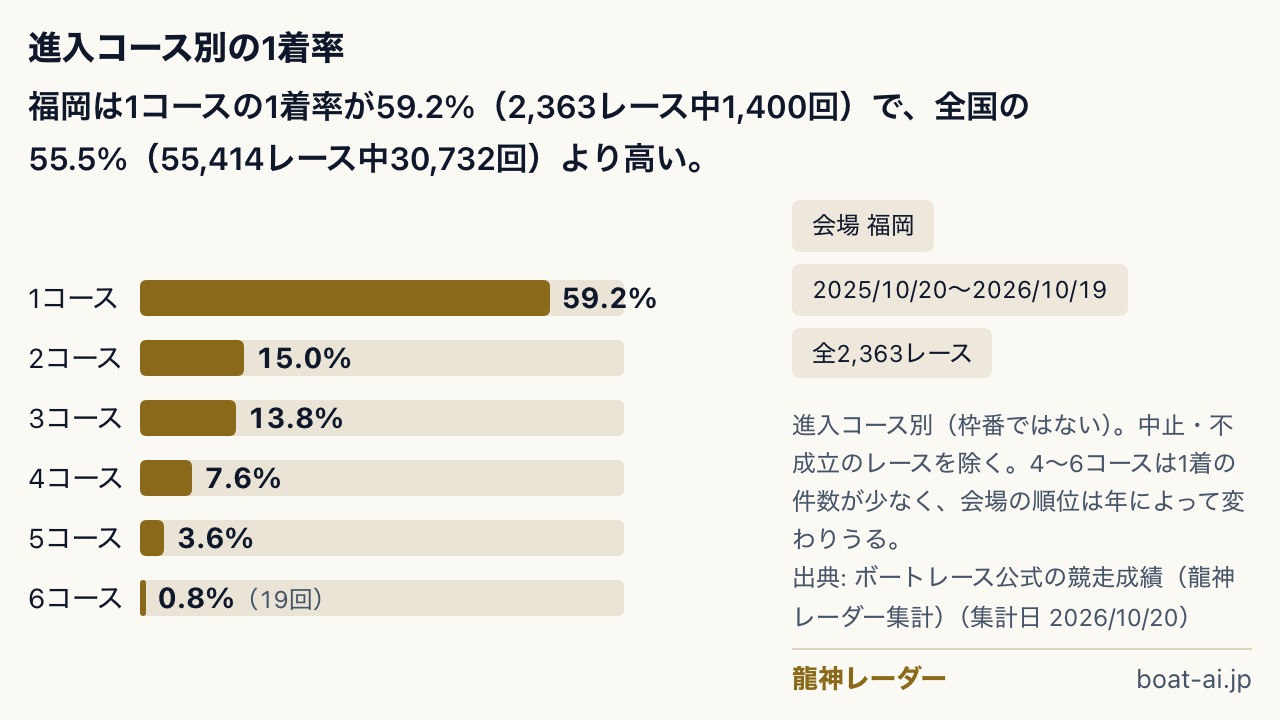
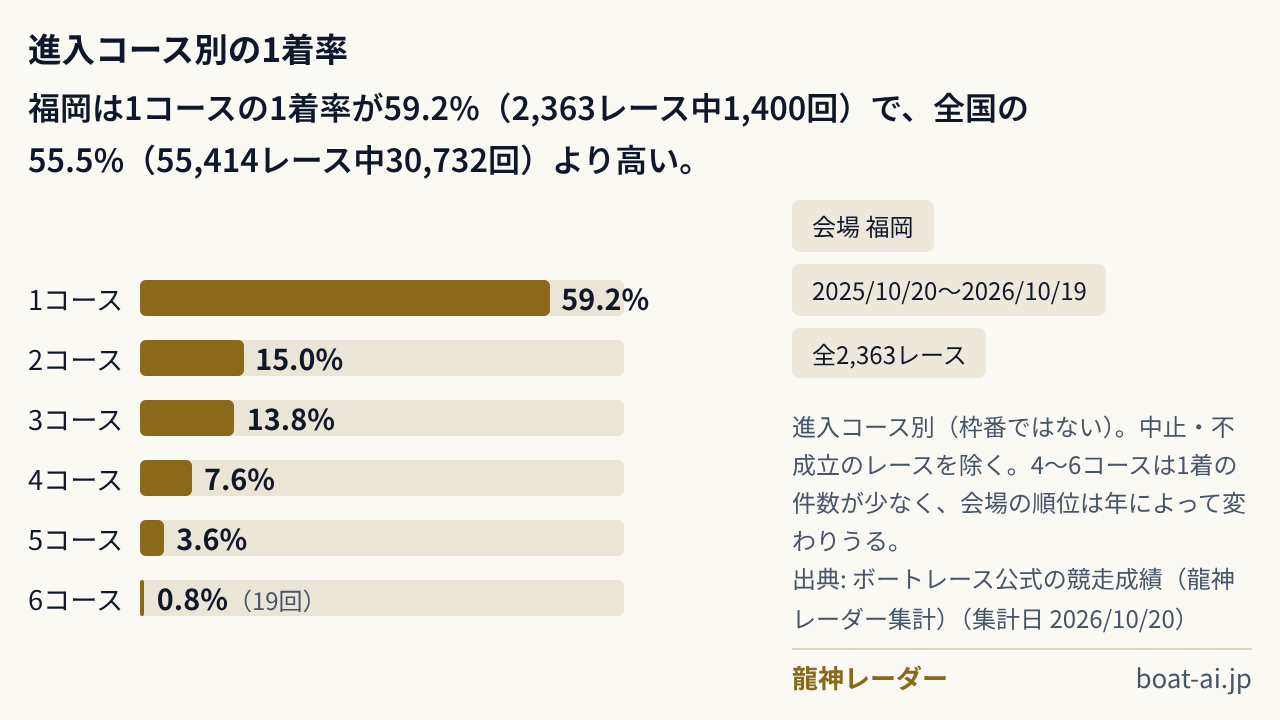
docs: 承認待ちの図の PNG を Vercel のビルドが撮った実物（Noto Sans JP）に替える

diff --git a/docs/design/blog-charts/mock/png-review.md b/docs/design/blog-charts/mock/png-review.md
@@ -1,6 +1,6 @@
 # 図の PNG の書き出しの形（承認待ち）
 
-承認したモック（`APPROVED.md`）の外の形なので、オーナーの確認を待つ。画像はビルドと同じ処理（`scripts/lib/blogChartPng.js`）で契約の例（`../example-venue-course-win.json`）を撮ったもの（手元の Mac の Chromium。本番のフォントは Noto Sans JP）。
+承認したモック（`APPROVED.md`）の外の形なので、オーナーの確認を待つ。画像はビルドと同じ処理（`scripts/lib/blogChartPng.js`）で契約の例（`../example-venue-course-win.json`）を撮ったもの（Vercel の Preview のビルドが撮った実物。フォントは本番と同じ Noto Sans JP、計測用ブランチ claude/blog-chart-png-measure）。
 
 | 大きさ | 画像 | 使う先 |
 |---|---|---|
